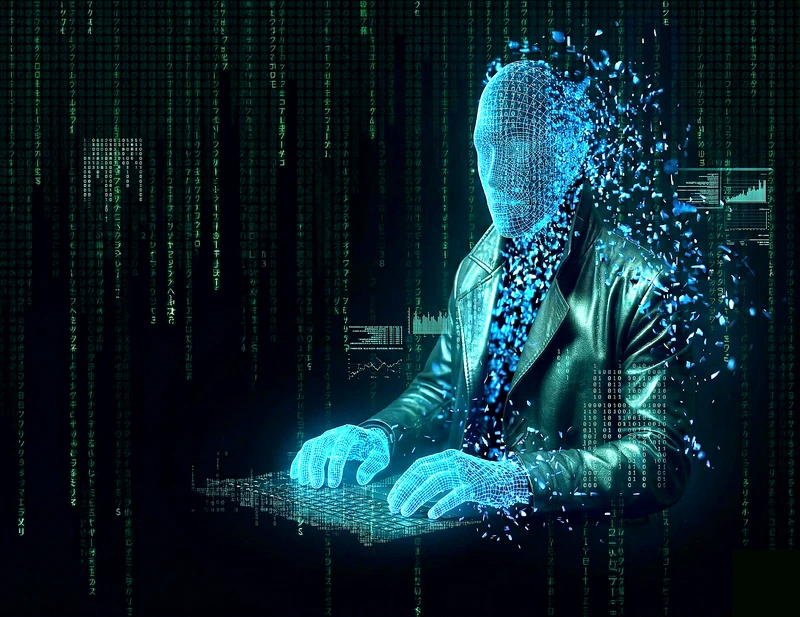
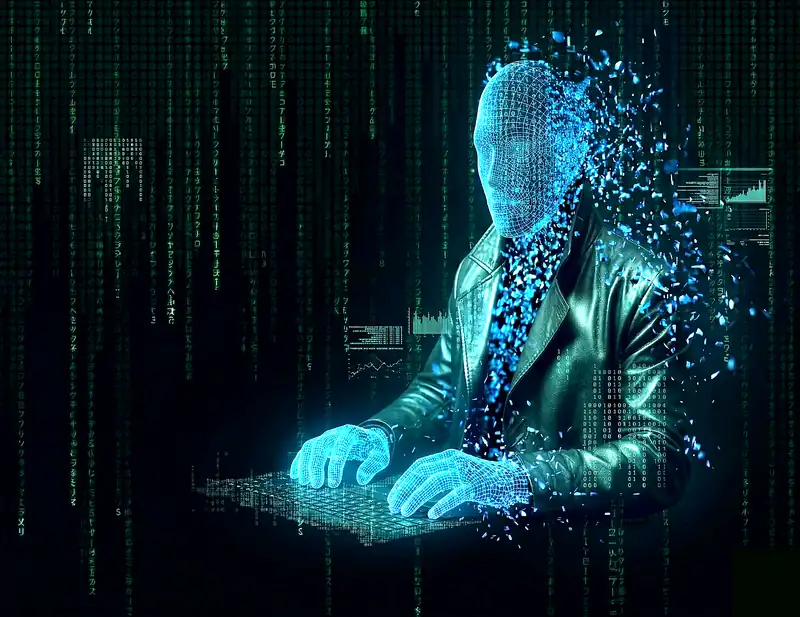
Lighthouse: afbeeldingen gecomprimeerd + matrix niet op landingspagina
- neo_figure.webp: 161 KiB -> 62 KiB (-62%)
- morpheus.webp: 148 KiB -> 77 KiB (-48%)
- Landingspagina / krijgt geen matrix/pill-sequence -- LCP is nu hero tekst
- neo_figure was LCP element door pill-sequence op verkeerde pagina

diff --git a/assets/js/app.js b/assets/js/app.js
@@ -300,6 +300,10 @@ document.addEventListener('DOMContentLoaded', () => {
   const canvas = document.getElementById('pa-matrix-canvas')
   if (!canvas) return
 
+  // Landingspagina: geen matrix of pill-sequence -- gewone marketing pagina
+  const isLanding = window.location.pathname === '/'
+  if (isLanding) return
+
   // rAF: laat browser één frame renderen vóór overlays verschijnen
   // zodat de pagina-inhoud (h1, cards) als LCP-element gemeten wordt.
   requestAnimationFrame(() => {
